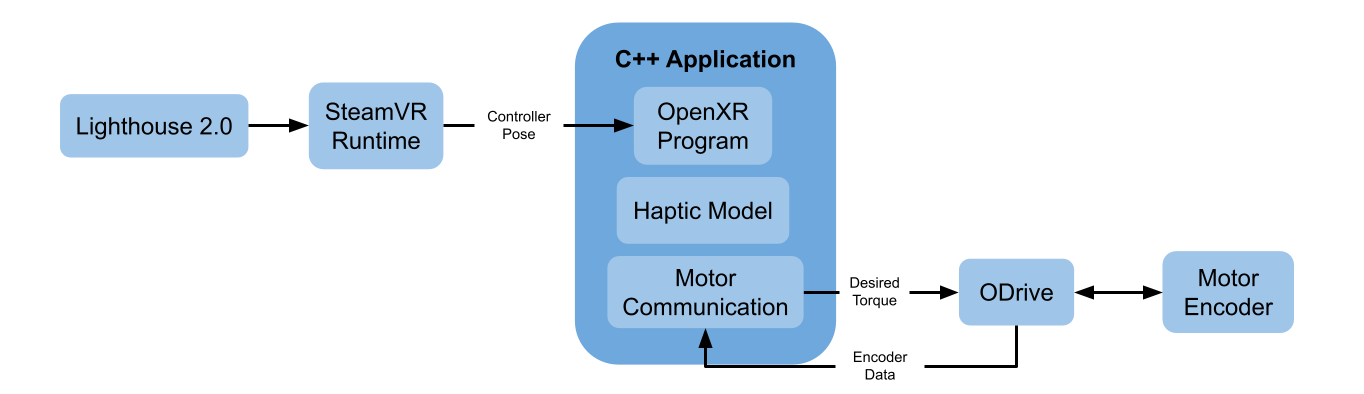
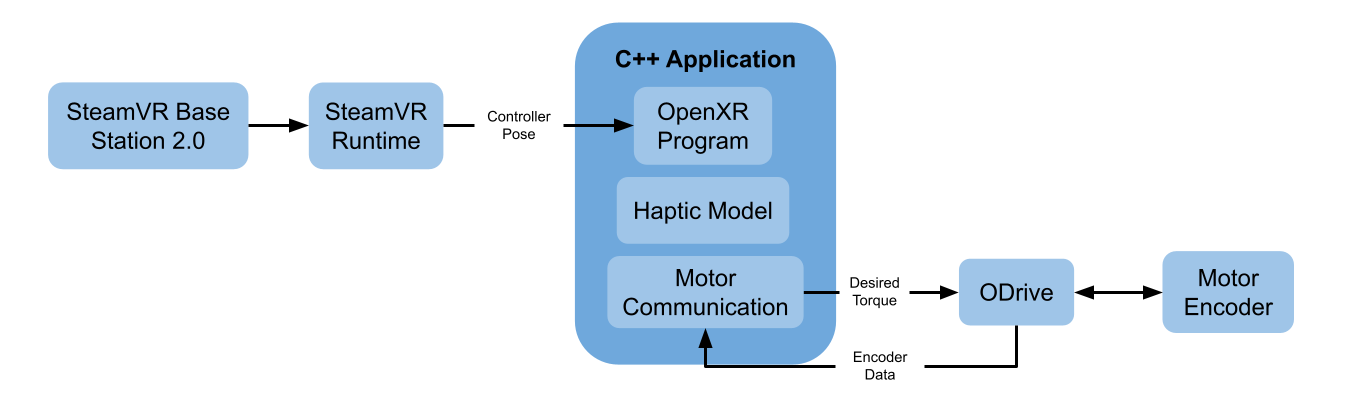
added half of the figures

Changed region(s): [[0.0308, 0.1827, 0.1848, 0.4264]]

diff --git a/haptics.html b/haptics.html
@@ -54,18 +54,19 @@
 								<header class="major">
 									<span class="date">April 2021 - December 2021</span>
 									<h1>Virtual Reality Haptics</h1>
-                                    <p>Created a wearable haptic feedback system for VR, and used with a virtual drum kit to demonstrate its functionality and benefits.
+                                    <p>Created a wearable haptic device for Virtual Reality. 
+										Demonstrated device by creating a virtual drumkit.
 									</p>
                                 </header>
                                 
-                                <div class="image main"><img src="images/SLAM/apollo.jpg" alt="" style="max-width: 80%"/></div>
+                                <div class="image main"><img src="images/Haptics/Vr-haptics.jpg" alt="" style="max-width: 70%"/></div>
                                 
 								<h2>Overview</h2>
 								<p> This project is an exploration in designing and programming robotic systems for VR haptic feedback. 
 									The main selling point of VR is the immersion. 
 									However in current systems, the immersion is only an audio-visual experience. 
 									Integrating the sense of touch is the next step in immersion. 
-									Haptic feedback can enable more complicated applications such as telerobotic surgery and strengthen the well developed applications such as gaming.
+									Haptic feedback can enable more complicated applications such as telerobotic surgery and strengthen well developed applications such as gaming.
 									VR haptic gloves were the first expansion into the tactile domain.
 									These gloves can resist finger motion.
 									This project is concerned with resisting wrist and arm motion.
@@ -95,41 +96,52 @@
 									</p>
 								</div><br/>
 								<p>	
-									From a software and controls standpoint, the primary constraint is the VR tracking frequency.
-									The maximum stiffness of a haptically rendered surface is proportional to the speed of the controller.
-									The Valve Index 2, comes with a state of the art tracking system, Lighthouse 2.0. 
+									From a software and controls standpoint, the primary concern is the VR tracking frequency.
+									The maximum stiffness of a haptically rendered surface depends on the speed of the controller.
+									The <a href="https://store.steampowered.com/valveindex" target="_blank">Valve Index</a>, 
+									comes with a state of the art tracking system, 
+									<a href="https://www.vive.com/us/accessory/base-station2/" target="_blank">SteamVR Base Station 2.0</a>.  
 									This tracking system provides data at 144 Hz.
-									The following is the primary question I researched during this project.
+									This project addresses the following research question.
 									Given a tracking frequency of 144 Hz, what surfaces can be haptically render?
 									The answer to this question is based in both engineering and human psychology.
 								</p>
 								<h2>Materials</h2>
                                 <h4>Hardware Selection</h4>
-                                <p> For this project, I am using a Valve Index 2 with the Vive Lighthouse 2.0 tracking system. 
-									I chose this setup because the Lighthouse 2.0 provides the fastest VR tracking system.
-									The other primary components I needed are motors, encoders, and a motor driver.
-									I decided to use the T-motor GL60 Kv25. I chose this motor for the following reasons. 
-									It has a Kv of 25 \(\frac{rpm}{V}\), so it can deliver high torque. 
-									It has a has 14 pole pairs, so rotation will be smooth. This is necessary to create compelling haptics.
-									It has a stall current of 4.2 A. This will prevent the motor from overheating quickly.
+                                <p> As mentioned, I am using a 
+									<a href="https://store.steampowered.com/valveindex" target="_blank">Valve Index</a> 
+									with the 
+									<a href="https://www.vive.com/us/accessory/base-station2/" target="_blank">SteamVR Base Station 2.0</a>. 
+									The other primary components needed are motors, encoders, and a motor driver.
+									I decided to use the 
+									<a href="https://uav-en.tmotor.com/html/2021/GLSeries_0225/708.html" target="_blank">T-Motor GL60 KV25</a>. 
+									I chose this motor for the following reasons. 
+									It can deliver high torque at low currents which helps prevent the motor from overheating. 
+									It has a has 14 pole pairs, so rotation is smooth. This is necessary to create compelling haptics.
 									It weighs 230g which is reasonable for the heaviest component of the wearable device. 
-									For the motor driver, I decided to use the ODrive. 
+									For the motor driver, I decided to use the 
+									<a href="https://odriverobotics.com/" target="_blank">ODrive</a>. 
 									This motor driver is open-source, so it can be modified if needed. 
-									Also, the ODrive implements field oriented control to smoothly control the motor and create compelling haptics. 
-									The encoder I chose is the AS5048A. This encoder has 14-bit resolution and is supported by the ODrive.
+									Also, the ODrive implements field oriented control to smoothly control the motor. 
+									I am using the 
+									<a href="https://ams.com/en/as5048a" target="_blank">AS5048A encoder</a>. 
+									This encoder has 14-bit resolution and is supported by the ODrive.
                                 </p>
 								<h4>Software Selection</h4>
                                 <p> It was difficult to select the software to use for this project.
-									Robots run on Linux whereas VR runs on Windows. 
-									Since this project, is at the intersection of robotics and VR it was difficult to decide which one to use.
+									Robots run on Linux, whereas VR runs on Windows. 
 									I settled on using Linux for the following reasons. 
 									This project is primarily a robotic technology exploration not a VR technology exploration.
 									The robotics side of this project will be easier to build upon in the future if this foundation is built Linux.
 									Once the technology is no longer experimental, it can be ported Windows. 
 									The downside to using Linux, is that it is difficult to interact with the VR hardware.
-									Currently popular game engines, Unity and Unreal Engine, do not support VR development in Linux.
-									I decided to use the OpenXR API directly to interact with the hardware. 
-									I stripped down an OpenXR example render pipeline for my own use.
+									Currently, popular game engines, Unity and Unreal Engine, do not support VR development in Linux.
+									I decided to use the 
+									<a href="https://www.khronos.org/registry/OpenXR/specs/1.0/man/html/openxr.html" target="_blank">OpenXR API</a> 
+									directly to interact with the hardware. 
+									I stripped down an 
+									<a href="https://github.com/KhronosGroup/OpenXR-SDK-Source/tree/master/src/tests/hello_xr" target="_blank">OpenXR example render pipeline</a> 
+									for my own use.
 									This project focuses on the sense of touch, so for now I am not rendering to the VR headset. 
 									I am only using the VR setup and render pipeline to access the controller tracking data.
 								</p>
@@ -137,7 +149,7 @@
 								<h2>Pipeline</h2>
 								<a href="images/Haptics/low_level_haptics_pipeline.png" target="_blank"><img class="image fit" src="images/Haptics/low_level_haptics_pipeline.png" alt="" /></a><br/>
 								<div class="align center">
-									<p class="image center"><b>Figure 1.</b> General software architecture.
+									<p class="image center"><b>Figure 2.</b> General software architecture.
 										The application inputs the controller pose and encoder data. 
 										The haptic model determines the torque that should be applied to the motor.
 										The desired torque is sent to the ODrive.
@@ -145,19 +157,22 @@
 									</p>
 								</div><br/>
 								<h4>VR Input</h4>
-								<p>The Lighthouse 2.0 samples controller and headset data at 144Hz. 
-									The SteamVR runtime converts the data from the Lighthouse into meaningful information.
-									The OpenXR program collects both controller poses as well as the headset pose, but I am only using a single controller pose. <br/><br/>
-									<b>Note on SteamVR Runtime:</b> This is currently the only runtime that can interact with the Lighthouse 2.0. 
+								<p>The SteamVR Base Station 2.0 samples controller and headset poses. 
+									The SteamVR runtime converts the data from the SteamVR Base Station into meaningful information.
+									The OpenXR program collects both controller poses as well as the headset pose. <br/><br/>
+									<b>Note on SteamVR Runtime:</b> This is currently the only runtime that can interact with the SteamVR Base Station 2.0. 
 									SteamVR is closed source, and their developement practices (specifically for Linux) are questionable. 
 									For this project, I am using SteamVR version 1.15.12. Also, I disabled SteamVR from connecting to the internet.
 									This is the only way to prevent auto updates. 
-									I recommend using Monado, an open-source runtime, when Lighthouse 2.0 is supported.
+									I recommend using 
+									<a href="https://monado.dev/" target="_blank">Monado</a>, 
+									an open-source runtime, when SteamVR Base Station 2.0 is supported.
 								</p>
 
 								<h4>C++ Application</h4>
 								<p><b>OpenXR Program</b><br/>
-									This part of my application was derived from the hello_xr OpenXR example. 
+									This part of my application was derived from the 
+									<a href="https://github.com/KhronosGroup/OpenXR-SDK-Source/tree/master/src/tests/hello_xr" target="_blank">hello_xr OpenXR example</a>.  
 									I simplified this code to only the portions needed for this project. 
 									I also added functionality to query the state of the program and retreive necessary information such as controller pose.<br/>
 									<b>Haptic Model</b><br/>
@@ -173,7 +188,7 @@
 								<p>After the C++ application sends a desired torque to the ODrive, the ODrive's control algorithms should handle the direct motor control. 
 									However, I had to modify the hardware and software on the ODrive to enable the torque control mode.
 									The ODrive firmware classifies motors into two categories, high current motors and low current motors. 
-									The T-Motor GL60 Kv25 is classified as a low current motor. 
+									The T-Motor GL60 KV25 is classified as a low current motor. 
 									The ODrive does not implement torque control for low current motors because it can overheat the ODrive and/or the motor. 
 									To work around this, I replaced the standard shunt resistors on the ODrive with 0.02Ω resistors. 
 									I also modified the shunt resistance value in the firmware to reflect this change.
@@ -193,48 +208,77 @@
 									k is the spring constant [\(\frac{Nm}{degrees}\)]<br/>
 									\(&theta;\) is the displacement [degrees]<br/><br/>
 								</p>
-								<h4>Encoder Feedback</h4>
+								<h4>VR Tracking vs. Encoder Feedback</h4>
 								<p>The C++ application received encoder data at a frequency of 490 Hz. 
-									Using only the encoder feedback I was able to render walls up to a stiffness of ... before instability occurred
+									Using only the encoder feedback I was able to render walls with very high stiffness and little instability. 
+									Instability only occured when the user held the controller exactly at the wall boundary.
+									The VR tracking data came in at 144 Hz. Using the tracking data feedback I was able to render walls at low stiffness with little instability. 
+									At this low stiffness the "wall" did not feel like a wall. At medium stiffness there was significant instability at the wall boundary, but the wall felt realistic.
 								</p>
-								<!-- gif of encoder feedback stability and instability -->
+								<div class="row">
+									<div class="column-2">
+										<img src="images/Haptics/encoder_2nm_deg.gif" alt="" style="width: 100%;"/>
+									</div>
+									<div class="column-2">
+										<img src="images/Haptics/vr_02nm_deg.gif" style="width: 100%;"/>
+									</div>
+								</div>
+								<div class="align center">
+									<p class="image center" style="font-size: 13.5px;"><b>Figure 3.</b> 
+									The left is a rendered wall with stiffness 2 \(\frac{Nm}{deg}\) using encoder feedback.<br/>
+									The right is a rendered wall with stiffness 0.2 \(\frac{Nm}{deg}\) using tracking feedback.<br/>
+									The encoder produces minimal jitter at the wall boundary, but the tracking data produces significant jitter.
+									</p>
+								</div><br/>
 
-								<h4>Tracking Feedback</h4>
-								<p> The C++ application received VR controller pose data at a frequency of 144 Hz.
-									Using only the pose data, I was able to render walls up to a stiffness of ... before instability occurred </p>
-                                </p>
-								<!-- gif of tracking feedback stability and instability -->
+								<h4>Determining the Cause of Instability</h4>
+								<p> The results above did not confirm that compelling haptics are feasible given the bottleneck tracking frequency. 
+									In order to create compelling haptics using the tracking data, I needed to determine the cause of the instability. 
+									I did this by limiting the encoder data frequency to 144 Hz. Even with a throttled frequency there was not significant instability at the wall boundary. 
+									Then, I added gaussian noise to the encoder data. Doing this made the walls rendered using encoder data feel like the walls rendered using VR tracking data. 
+								</p>
+								
+								<h4>Filtering</h4>
+								<p>Due to the noise in the tracking data, I decided to filter the controller pose. 
+									I used the following exponential smoothing function as a low pass filter:
+									$$s_0 = x_0$$
+									$$s_n = &alpha;x_n+(1-&alpha;)s_{n-1}$$
+									s is the filtered output<br/>
+									x is the unfiltered input<br/>
+									\(&alpha;\) is the smoothing factor<br/><br/>
+									I qualitatively determined \(&alpha;=0.5\) to be the optimal smoothing factor. 
+									You can find the class I made for exponential smoothing here. 
+									The results convinced me that compelling haptics are feasible using the SteamVR Base Station 2.0
+								</p>
+								<center>
+								<a href="images/Haptics/vr_filtered.gif" target="_blank"><img class="image fit" src="images/Haptics/vr_filtered.gif" alt="" style="width: 50%; height: 50%;"/></a><br/>
+								<div class="align center">
+									<p class="image center"><b>Figure 4.</b> Rendered wall with stiffness 0.2 \(\frac{Nm}{deg}\) using filtered tracking feedback. 
+										There is still some instability at the wall boundary, but it has been significantly reduced
+									</p>
+								</div>
+								</center><br/>
+								<!-- gif of stability after filtering  -->
+								<!-- gif of tracking stability -->
 
                                 <h2>2 Degrees of Freedom</h2>
-								<p>The 1 degree of freedom system confirmed that compelling haptics are feasible given the bottleneck frequency of 144 Hz. 
+								<p>The 1 degree of freedom system confirmed that compelling haptics are feasible. 
 									The next step was to incorporate more freedom of movement. 
 									I put the 1 degree of freedom system on a vertical slider to make a 2 degree of freedom system.
 									Haptics in the 2 degree of freedom system cannot be done with just the encoder. 
 									The VR tracking data is necessary to determine the position of the controller.
 									The VR tracking data or the encoder data could be used to determine the angle of the controller. 
 									In this system, I decided to haptically render a floor. 
-									You can imagine the VR controller as a sword (extending past the top of the physical controller), and the sword tip (cursor) is interacting with the floor.
-									As the cursor touches the floor, the motor delivers a torque to the user that attempts to prevent the sword from penetrating the floor.
-									I used the following equation to model the floor: 
+									You can imagine the VR controller as a sword (extending past the top of the physical controller), and the sword tip (cursor) is interacting with the ceiling.
+									As the cursor touches the ceiling, the motor delivers a torque to the user that attempts to prevent the sword from penetrating the ceiling.
+									I used the following equation to model the ceiling: 
 									$$T_m = -kx$$
 									\(T_m\) is the motor torque [Nm]<br/>
 									k is the spring constant [\(\frac{N}{m}\)]<br/>
-									x is the depth of the cursor into the floor squared  [\(m^2\)]<br/><br/>
+									x is the depth of the cursor into the ceiling squared  [\(m^2\)]<br/><br/>
 									This equation allowed me to express the spring constant in traditional units.
 								</p>
 								<!-- gif of instability before filtering -->
-
-								<h4>Filtering</h4>
-								<p>Due to the noise in the tracking data, I decided to filter the controller pose. 
-									I used the following exponential smoothing function to lowpass filter the controller position:
-									$$s_0 = x_0$$
-									$$s_n = &alpha;x_n+(1-&alpha;)s_{n-1}$$
-									s is the filtered output<br/>
-									x is the unfiltered input<br/>
-									\(&alpha;\) is the smoothing factor<br/><br/>
-									I experimentally and qualitatively determined \(&alpha;=0.5\) to be the optimal smoothing factor. 
-								</p>
-								<!-- gif of stability after filtering  -->
 
                                 <h2>6 Degrees of Freedom</h2>
 								<p>The next step was to detach the controller from the vertical rail. 
